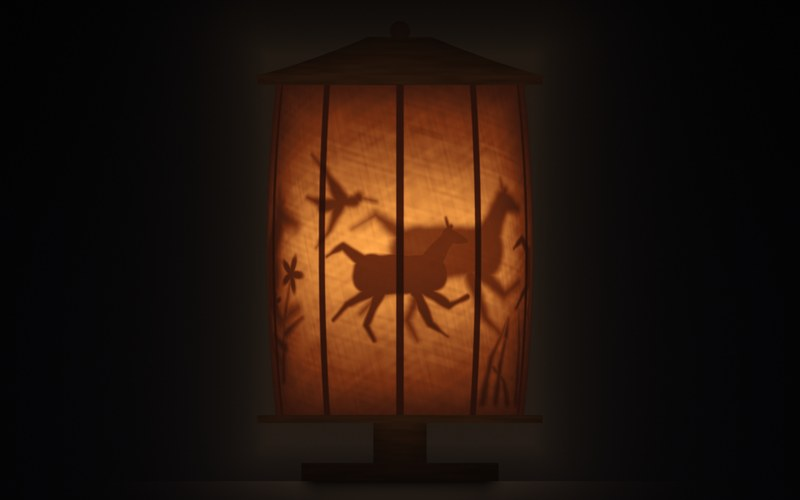
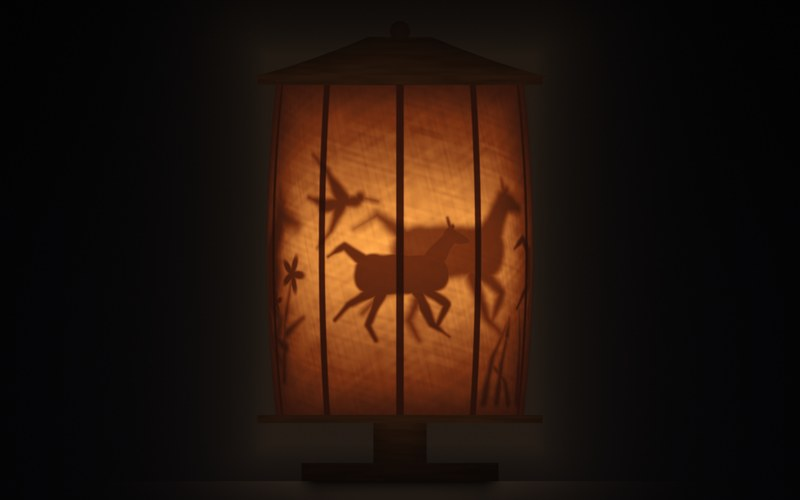
走馬灯: 馬の前脚の折れ方を解剖学的に修正 (#89)
ユーザー指摘「前足が逆に折れています」に対応。

馬の前肢は膝(手根)が前方に凸で、屈曲すると管から下は後ろ下へ畳まれ蹄が
体の下に来る。旧実装は膝から先が (0.72,-0.44)→(1.02,-0.30) と前上方へ
跳ね上がっており、人間や鳥のように前へ折れて見えていた。

- 前腕: (0.30,-0.18)→(0.66,-0.42) 膝を前下に
- 管:   (0.66,-0.42)→(0.50,-0.76) 後ろ下へ折り畳み、蹄が体の下

展開図(uDebug=3)で跳ね上がりの消失と正しい屈曲を目視確認。もう一方の前脚は
前方伸展、後脚は後方へ蹴り出しのままなので、ギャロップとして自然な姿勢に。
サムネイルも修正後の馬で撮り直し。

verify_static errors 1(既知の gtag のみ)。verify_runtime 全チェック pass
(freeze 決定性・motion・pageerror 0)。他の切り絵・描画・不変量は不変。

Claude-Session: https://claude.ai/code/session_01DTJPjJypbfpFcWh88bfm1t

diff --git a/fable5_soumatou.html b/fable5_soumatou.html
@@ -751,8 +751,8 @@
             d = min(d, sdRC(p, vec2(0.70, 0.62), vec2(0.99, 0.54), 0.135, 0.072));
             d = min(d, sdRC(p, vec2(0.71, 0.68), vec2(0.66, 0.88), 0.050, 0.012));
             d = min(d, sdRC(p, vec2(0.42, 0.26), vec2(0.74, 0.74), 0.090, 0.055));
-            d = min(d, sdRC(p, vec2( 0.30, -0.18), vec2( 0.72, -0.44), 0.105, 0.055));
-            d = min(d, sdRC(p, vec2( 0.72, -0.44), vec2( 1.02, -0.30), 0.055, 0.028));
+            d = min(d, sdRC(p, vec2( 0.30, -0.18), vec2( 0.66, -0.42), 0.105, 0.055));
+            d = min(d, sdRC(p, vec2( 0.66, -0.42), vec2( 0.50, -0.76), 0.055, 0.028));
             d = min(d, sdRC(p, vec2( 0.20, -0.22), vec2( 0.42, -0.72), 0.100, 0.048));
             d = min(d, sdRC(p, vec2( 0.42, -0.72), vec2( 0.70, -0.92), 0.048, 0.026));
             d = min(d, sdRC(p, vec2(-0.40, -0.18), vec2(-0.86, -0.42), 0.115, 0.055));
